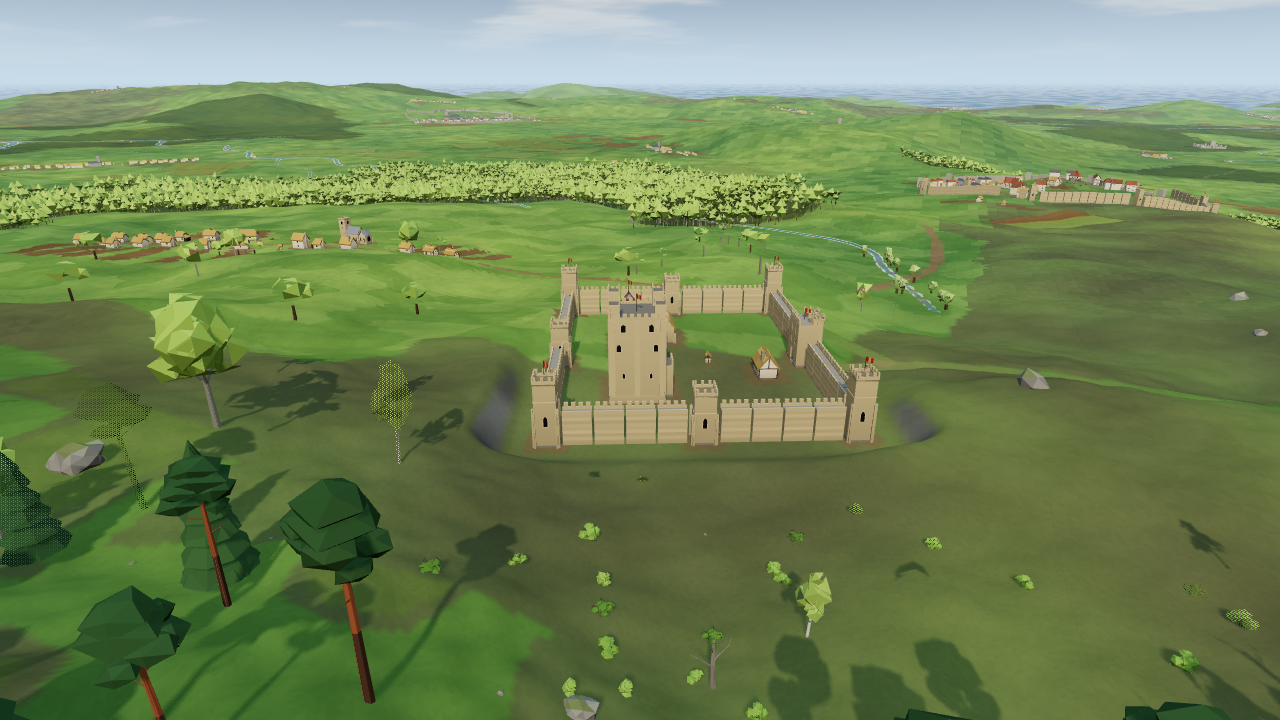
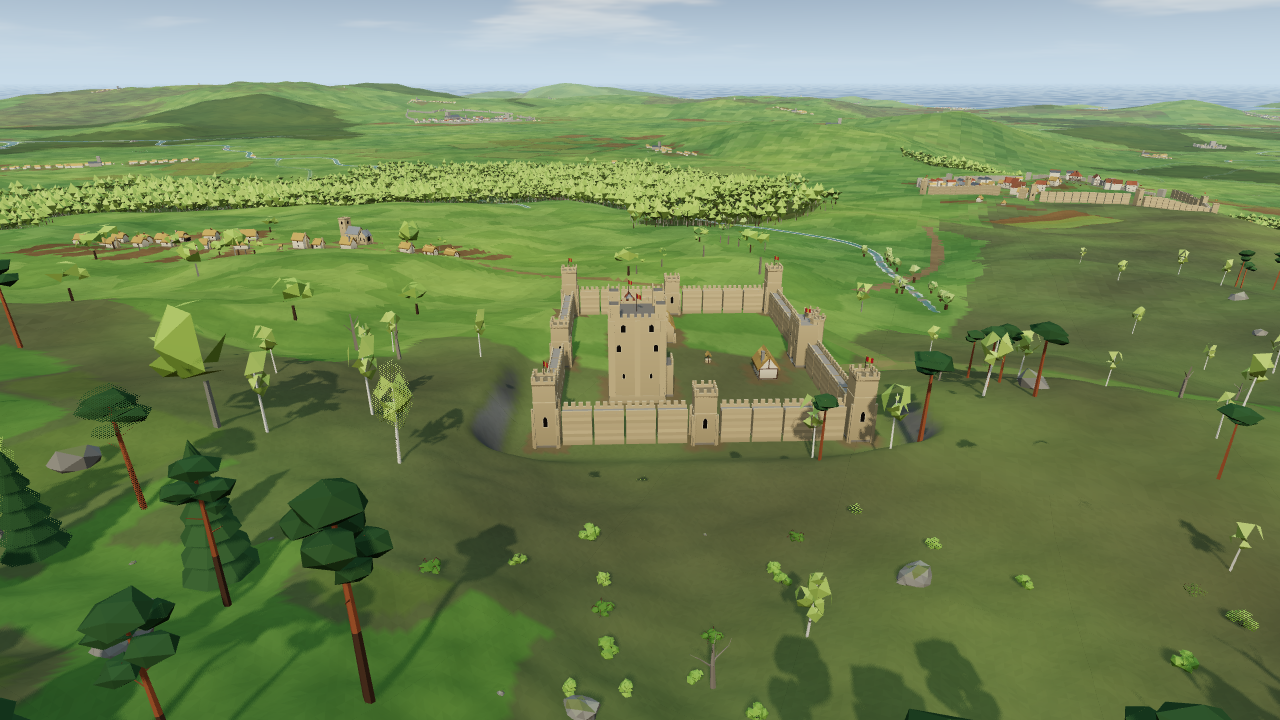
Vegetation: per-(kind, lod) materials so each band keeps its own fade window; bands by horizontal distance like the shader (no half-dithered trees)
Claude-Session: https://claude.ai/code/session_01P3U377cwAZKJY4Szz9RJL8

diff --git a/src/render/vegetation/vegetationSystem.ts b/src/render/vegetation/vegetationSystem.ts
@@ -239,8 +239,11 @@ export class VegetationSystem {
         c.lastUsed = this.frame;
         if (Math.abs(c.dist - d) > 40) this.markBandDirty(c);
         c.dist = d;
-        const band = d < s.grass ? 0 : d < s.near ? 1 : d < s.mid ? 2 : 3;
-        const edge = band <= 1 && d + CHUNK_REACH > s.near - FADE;
+        // bands by horizontal distance, the same measure the shader fades by (instance distances
+        // in a chunk are never below the chunk's), so the near/mid hand-over has no gaps
+        const dh = Math.sqrt(dx * dx + dz * dz);
+        const band = dh < s.grass ? 0 : dh < s.near ? 1 : dh < s.mid ? 2 : 3;
+        const edge = band <= 1 && dh + CHUNK_REACH > s.near - FADE;
         _box.set(_v1.set(x0, c.minY - 2, z0), _v2.set(x0 + CHUNK_SIZE, c.maxY + 30, z0 + CHUNK_SIZE));
         const vis = d < 40 || this.wideFrustum.intersectsBox(_box);
         if (band !== c.band || vis !== c.visible || edge !== c.edge) {
@@ -415,12 +418,7 @@ export class VegetationSystem {
           if (kit.depthMaterial) mesh.customDepthMaterial = kit.depthMaterial;
           mesh.receiveShadow = true;
           mesh.name = `veg:${KINDS[k]}:${b}`;
-          const fadeU = (kit.material as THREE.Material).userData?.lodFade as { value: THREE.Vector4 } | undefined;
-          if (fadeU) {
-            const fade = bm.fade;
-            mesh.onBeforeRender = () => { fadeU.value.copy(fade); };
-            mesh.onAfterRender = () => { fadeU.value.copy(NO_FADE); };
-          }
+
           mesh.matrixAutoUpdate = false;
           this.root.add(mesh);
           bm.mesh = mesh;
@@ -437,6 +435,9 @@ export class VegetationSystem {
           if (sink > 0) for (let q = 0; q < n; q++) mats[(o + q) * 16 + 13] -= sink;
           o += n;
         }
+        // the kit's material is per (kind, lod), and each band uses its own lod: set its fade window
+        const fadeU = (bm.mesh.material as THREE.Material).userData?.lodFade as { value: THREE.Vector4 } | undefined;
+        fadeU?.value.copy(bm.fade);
         bm.mesh.count = o;
         bm.mesh.instanceMatrix.clearUpdateRanges();
         bm.mesh.instanceMatrix.addUpdateRange(0, o * 16);

diff --git a/src/assets/vegetation/index.ts b/src/assets/vegetation/index.ts
@@ -50,7 +50,7 @@ export function bendNormalsUp(g: THREE.BufferGeometry, keep: number): void {
 export function createVegetationKits(u: SharedUniforms): VegetationKits {
   const foliage = new Map<ScatterKind, FoliageUniforms>();
   const kits = new Map<string, VegetationKit>();
-  const mats = new Map<ScatterKind, { m: THREE.Material; d: THREE.Material }>();
+  const mats = new Map<string, { m: THREE.Material; d: THREE.Material }>();
   let last: AssetEnvironment | null = null;
 
   const fol = (kind: ScatterKind): FoliageUniforms => {
@@ -62,14 +62,17 @@ export function createVegetationKits(u: SharedUniforms): VegetationKits {
     }
     return f;
   };
-  const matsFor = (kind: ScatterKind) => {
-    let m = mats.get(kind);
+  // one material per (kind, lod): same shader program, but each lod carries its own distance
+  // cross-fade window (material.userData.lodFade), so neighbouring bands can fade into each other
+  const matsFor = (kind: ScatterKind, lod: number) => {
+    const mk = `${kind}|${lod}`;
+    let m = mats.get(mk);
     if (!m) {
       const f = fol(kind);
       const ds = PLANTS[kind].doubleSided;
       m = { m: createVegetationMaterial(u, f, ds, !!PLANTS[kind].soft), d: createVegetationDepthMaterial(u, f, ds) };
       m.m.name = `veg:${kind}`;
-      mats.set(kind, m);
+      mats.set(mk, m);
     }
     return m;
   };
@@ -80,7 +83,7 @@ export function createVegetationKits(u: SharedUniforms): VegetationKits {
       let k = kits.get(key);
       if (!k) {
         const geometry = buildPlantGeometry(kind, lod);
-        const { m, d } = matsFor(kind);
+        const { m, d } = matsFor(kind, lod);
         const bb = geometry.boundingBox!;
         k = {
           geometry, material: m, depthMaterial: d,
